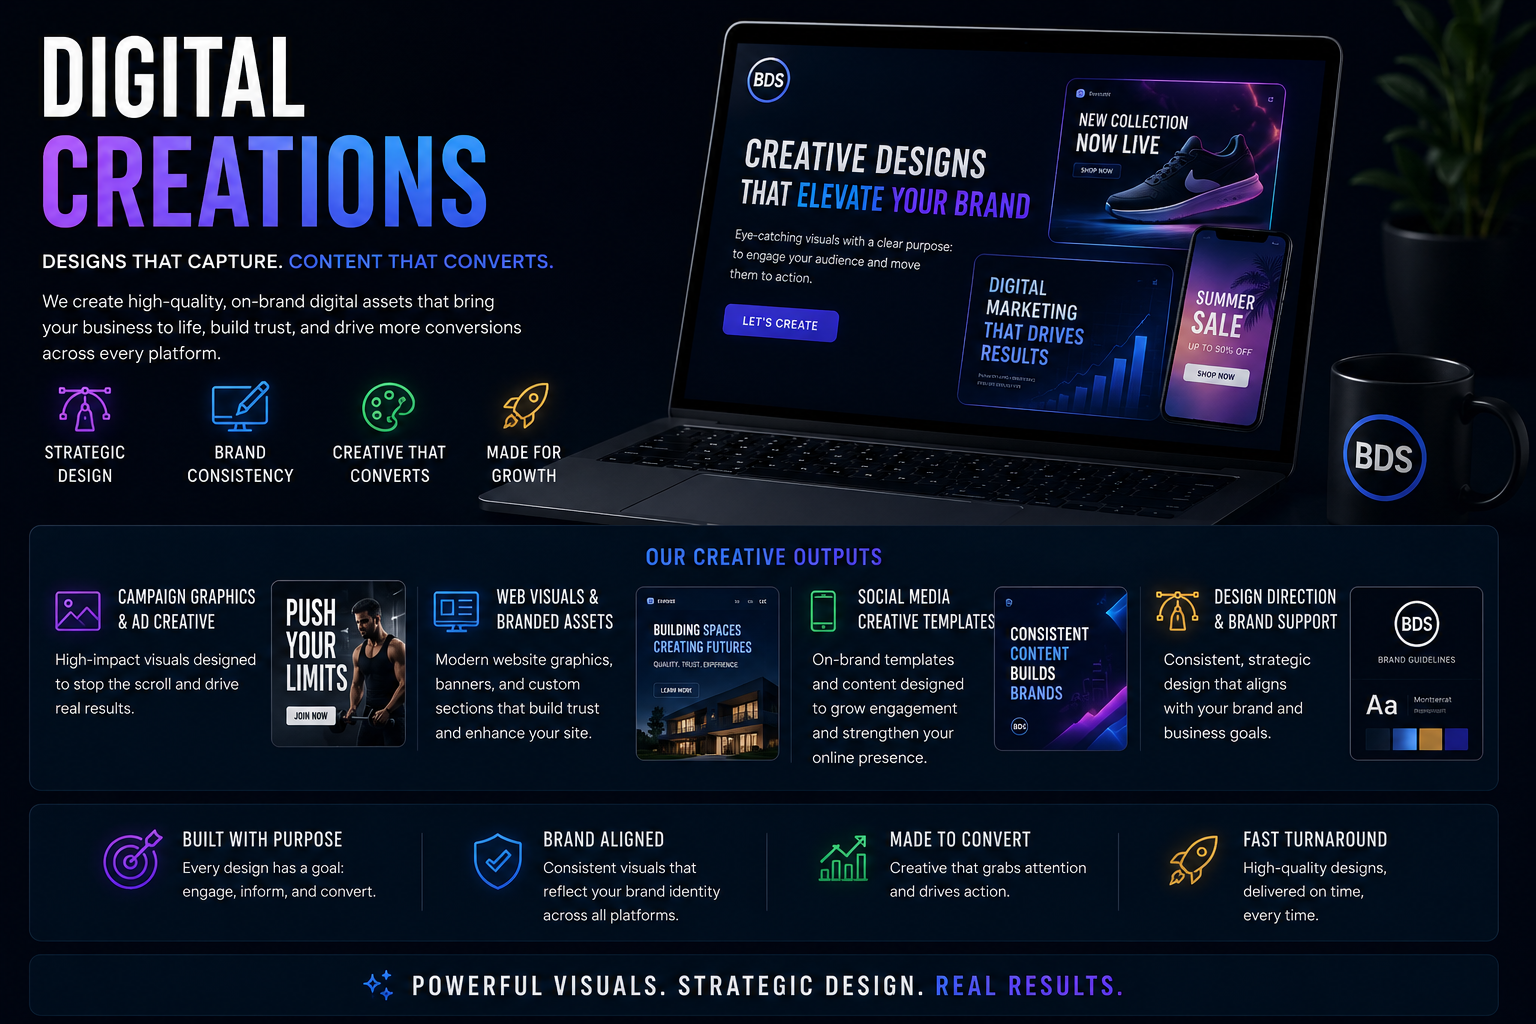
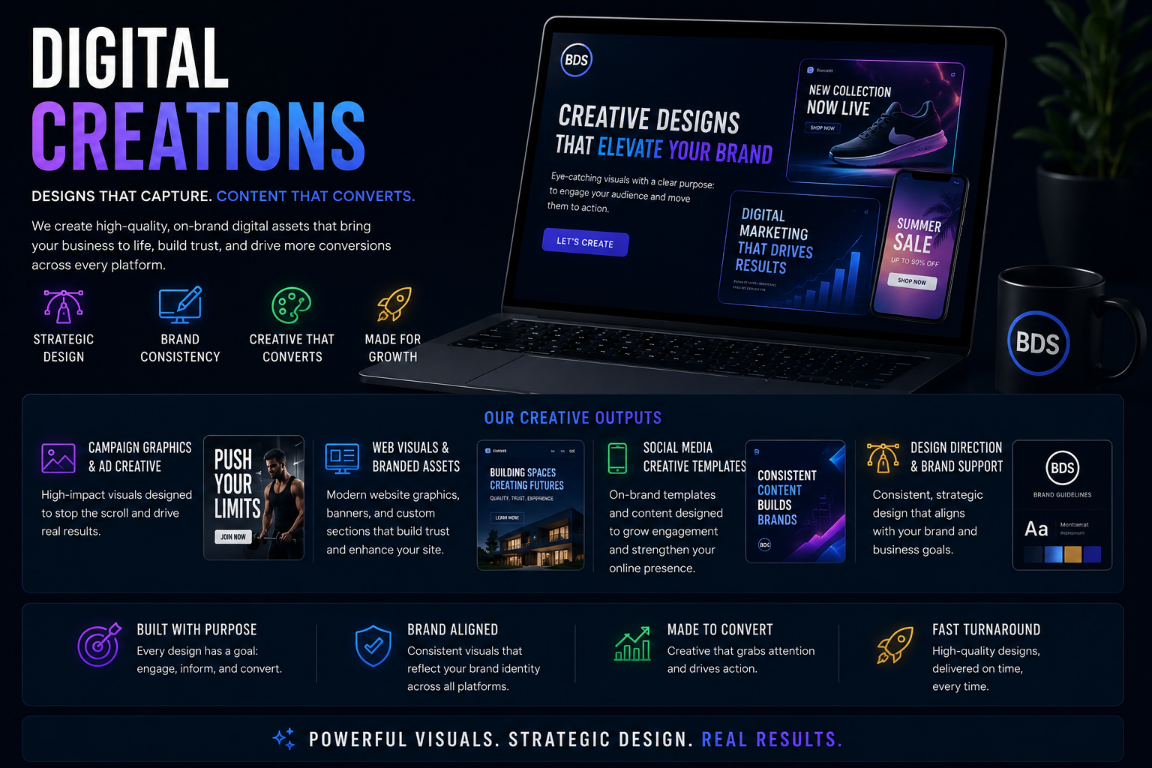
Copilot CLI session ec474513-fe91-4633-a356-92a793e6a1a1 changes

diff --git a/assets/styles.css b/assets/styles.css
@@ -1201,6 +1201,12 @@ h1 {
     url("./audit.png");
 }
 
+.creations-page-card::before {
+  background-image:
+    linear-gradient(180deg, rgba(9, 18, 27, 0.2) 0%, rgba(9, 18, 27, 0.42) 100%),
+    url("./creations.png");
+}
+
 .service-grid {
   margin-top: 1rem;
   display: grid;

diff --git a/creations.html b/creations.html
@@ -73,7 +73,7 @@
     </header>
 
     <main class="page-main">
-      <div class="container page-card">
+      <div class="container page-card creations-page-card">
         <h1>Digital Creations</h1>
         <p>
           Bring your brand to life with polished digital assets designed for clarity, consistency, and